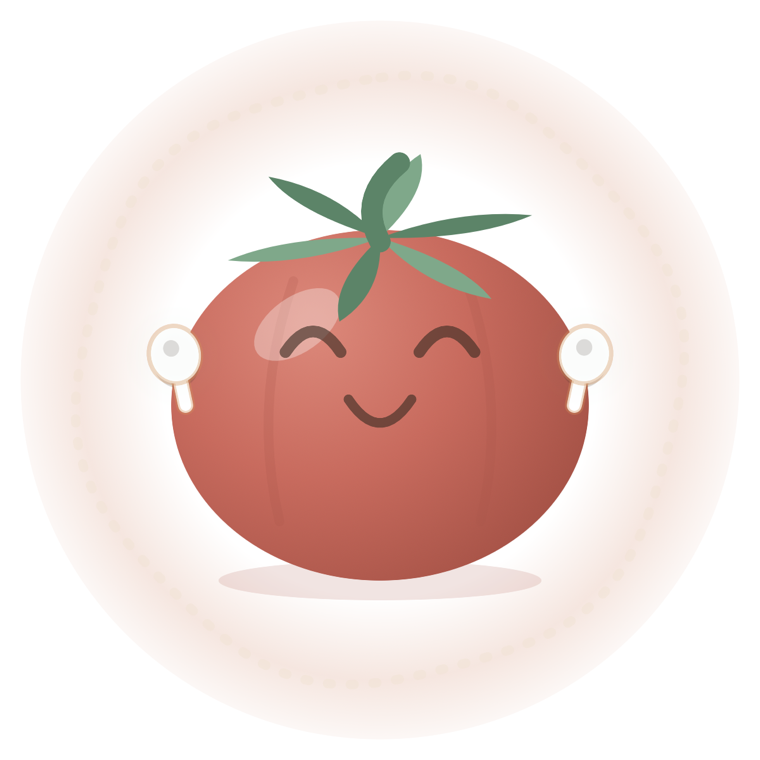
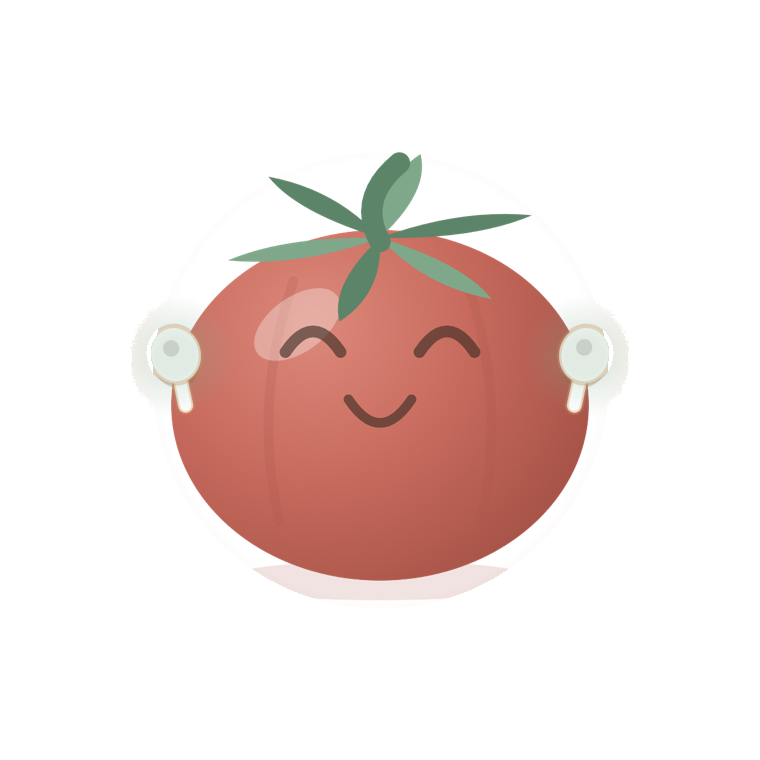
True transparency on the hero, and a vine that grows as you scroll
The hero PNG was baked onto white, so its edges showed. Each frame is now
rendered twice — over white and over black — and the true alpha solved for,
then the app's opaque aura disc is keyed out while its green vine is kept.

Two aligned renders are stacked: fruit alone, and fruit with a full vine ring.
A conic mask sweeps the second as the hero scrolls, so the vine grows clockwise
from twelve o'clock in the app's own artwork rather than a redrawn imitation.

Changed region(s): [[0.0605, 0.0605, 0.9382, 0.9382], [0.7263, 0.4237, 0.8171, 0.5145], [0.1816, 0.4237, 0.2724, 0.5145]]

diff --git a/index.html b/index.html
@@ -51,10 +51,18 @@ a:hover{text-decoration:underline}
   box-shadow:rgba(0,0,0,.22) 3px 5px 30px 0}
 
 /* hero fruit */
-#fruit{width:min(420px,72vw);display:block;margin:40px auto 8px;
+#stack{position:relative;width:min(420px,72vw);margin:40px auto 8px;
   transform:rotate(var(--rot,0deg)) translateY(var(--dy,0px));
   transition:transform .55s cubic-bezier(.2,.8,.3,1);will-change:transform}
-#fruit.live{transition:transform .1s linear}
+#stack.live{transition:transform .1s linear}
+#fruit{display:block;width:100%}
+/* The vine layer is the same render with its ring grown. Sweeping a conic mask
+   over it reveals the vine clockwise from twelve o'clock, exactly the way the
+   app grows it — and because the fruit underneath is identical and aligned, the
+   wedge shows nothing but the vine. */
+#vine{position:absolute;inset:0;width:100%;
+  -webkit-mask-image:conic-gradient(#000 0turn,#000 var(--grow,0turn),transparent 0);
+  mask-image:conic-gradient(#000 0turn,#000 var(--grow,0turn),transparent 0)}
 @keyframes breathe{0%,100%{transform:scale(1)}50%{transform:scale(1.03)}}
 #fruitwrap{animation:breathe 10s ease-in-out infinite}
 .demonote{font-size:14px;line-height:1.43;color:var(--muted);margin:10px auto 0;max-width:44ch;
@@ -92,8 +100,11 @@ footer a{color:#333}
     <p class="lead">Nobody told you. Your AirPods could have.</p>
 
     <div id="fruitwrap">
-      <img id="fruit" src="img/hero-tomato.png"
-           alt="A tomato wearing AirPods, smiling">
+      <div id="stack">
+        <img id="fruit" src="img/hero-tomato.png"
+             alt="A tomato wearing AirPods, smiling">
+        <img id="vine" src="img/hero-vine.png" alt="" aria-hidden="true">
+      </div>
     </div>
 
     <div class="actions">
@@ -237,7 +248,8 @@ footer a{color:#333}
 
 <script>
 (function(){
-  var fruit = document.getElementById('fruit');
+  var fruit = document.getElementById('stack');
+  var vine  = document.getElementById('vine');
   var btn   = document.getElementById('try');
   var note  = document.getElementById('note');
   var calm  = window.matchMedia('(prefers-reduced-motion: reduce)').matches;
@@ -292,6 +304,19 @@ footer a{color:#333}
       usePointer();
     }
   });
+
+    // The vine grows as the hero scrolls away, and stays grown.
+  var grown = 0;
+  function growVine(){
+    var wrap = document.getElementById('fruitwrap');
+    var r = wrap.getBoundingClientRect();
+    var travelled = (innerHeight * 0.62 - r.top) / (innerHeight * 0.95);
+    grown = Math.max(grown, Math.max(0, Math.min(1, travelled)));
+    vine.style.setProperty('--grow', grown.toFixed(3) + 'turn');
+  }
+  addEventListener('scroll', growVine, {passive:true});
+  addEventListener('resize', growVine);
+  growVine();
 
   if (!calm) {
     // A slow idle sway before anyone touches it, so the hero is never dead.
